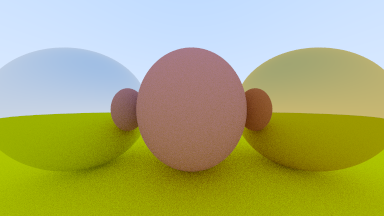
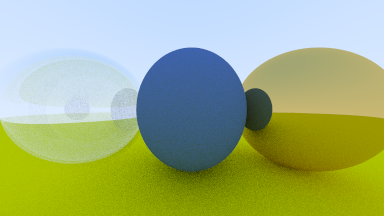
Chapter 10

diff --git a/src/materials.rs b/src/materials.rs
@@ -1,4 +1,4 @@
-use crate::{HitRecord, Ray, Vec3};
+use crate::{utilities::random_double, HitRecord, Ray, Vec3};
 
 pub struct ScatterRecord {
     pub attenuation: Vec3,
@@ -56,5 +56,51 @@ impl Material for Metal {
         } else {
             None
         }
+    }
+}
+
+pub struct Dielectric {
+    pub ref_idx: f64,
+}
+
+fn schlick(cosine: f64, ref_idx: f64) -> f64 {
+    let mut r0 = (1.0 - ref_idx) / (1.0 + ref_idx);
+    r0 += r0 * r0;
+    r0 + (1.0 - r0) * (1.0 - cosine).powf(5.0)
+}
+
+impl Material for Dielectric {
+    fn scatter(&self, r_in: &Ray, rec: &HitRecord) -> Option<ScatterRecord> {
+        let attenuation = Vec3(1.0, 1.0, 1.0);
+        let etai_over_etat = if rec.front_face {
+            1.0 / self.ref_idx
+        } else {
+            self.ref_idx
+        };
+
+        let unit_direction = r_in.direction.unit_vector();
+        let cos_theta = (-unit_direction).dot(&rec.normal).min(1.0);
+        let sin_theta = (1.0 - cos_theta * cos_theta).sqrt();
+
+        let direction = if etai_over_etat * sin_theta > 1.0 {
+            unit_direction.reflect(&rec.normal)
+        } else {
+            let reflect_prob = schlick(cos_theta, etai_over_etat);
+            if random_double() < reflect_prob {
+                unit_direction.reflect(&rec.normal)
+            } else {
+                unit_direction.refract(&rec.normal, etai_over_etat)
+            }
+        };
+
+        let scattered = Ray {
+            origin: rec.p,
+            direction,
+        };
+
+        Some(ScatterRecord {
+            attenuation,
+            scattered,
+        })
     }
 }

diff --git a/src/main.rs b/src/main.rs
@@ -13,7 +13,7 @@ use hit_record::HitRecord;
 use hittable::Hittable;
 use hittable_list::HittableList;
 use image::ImageBuffer;
-use materials::{Lambertian, Material, Metal};
+use materials::{Dielectric, Lambertian, Material, Metal};
 use ray::Ray;
 use sphere::Sphere;
 use std::rc::Rc;
@@ -50,7 +50,7 @@ pub fn main() {
             center: Vec3(0.0, 0.0, -1.0),
             radius: 0.5,
             mat: Rc::new(Lambertian {
-                albedo: Vec3(0.7, 0.3, 0.3),
+                albedo: Vec3(0.1, 0.2, 0.5),
             }),
         }),
         Box::new(Sphere {
@@ -71,10 +71,12 @@ pub fn main() {
         Box::new(Sphere {
             center: Vec3(-1.0, 0.0, -1.0),
             radius: 0.5,
-            mat: Rc::new(Metal {
-                albedo: Vec3(0.8, 0.8, 0.8),
-                fuzz: 1.0,
-            }),
+            mat: Rc::new(Dielectric { ref_idx: 1.5 }),
+        }),
+        Box::new(Sphere {
+            center: Vec3(-1.0, 0.0, -1.0),
+            radius: -0.45,
+            mat: Rc::new(Dielectric { ref_idx: 1.5 }),
         }),
     ]);
 

diff --git a/src/vec3.rs b/src/vec3.rs
@@ -93,6 +93,13 @@ impl Vec3 {
     pub fn reflect(&self, n: &Vec3) -> Vec3 {
         *self - 2.0 * self.dot(n) * *n
     }
+
+    pub fn refract(&self, n: &Vec3, etai_over_etat: f64) -> Vec3 {
+        let cos_theta = (-*self).dot(n);
+        let r_out_parallel = etai_over_etat * (*self + cos_theta * *n);
+        let r_out_perp = -(1.0 - r_out_parallel.length_squared()).sqrt() * *n;
+        r_out_parallel + r_out_perp
+    }
 }
 
 impl Neg for Vec3 {

diff --git a/src/hit_record.rs b/src/hit_record.rs
@@ -6,6 +6,7 @@ pub struct HitRecord {
     pub normal: Vec3,
     pub mat: Rc<dyn Material>,
     pub t: f64,
+    pub front_face: bool,
 }
 
 impl<'t> HitRecord {
@@ -22,6 +23,12 @@ impl<'t> HitRecord {
         } else {
             -*outward_normal
         };
-        HitRecord { p, normal, mat, t }
+        HitRecord {
+            p,
+            normal,
+            mat,
+            t,
+            front_face,
+        }
     }
 }
